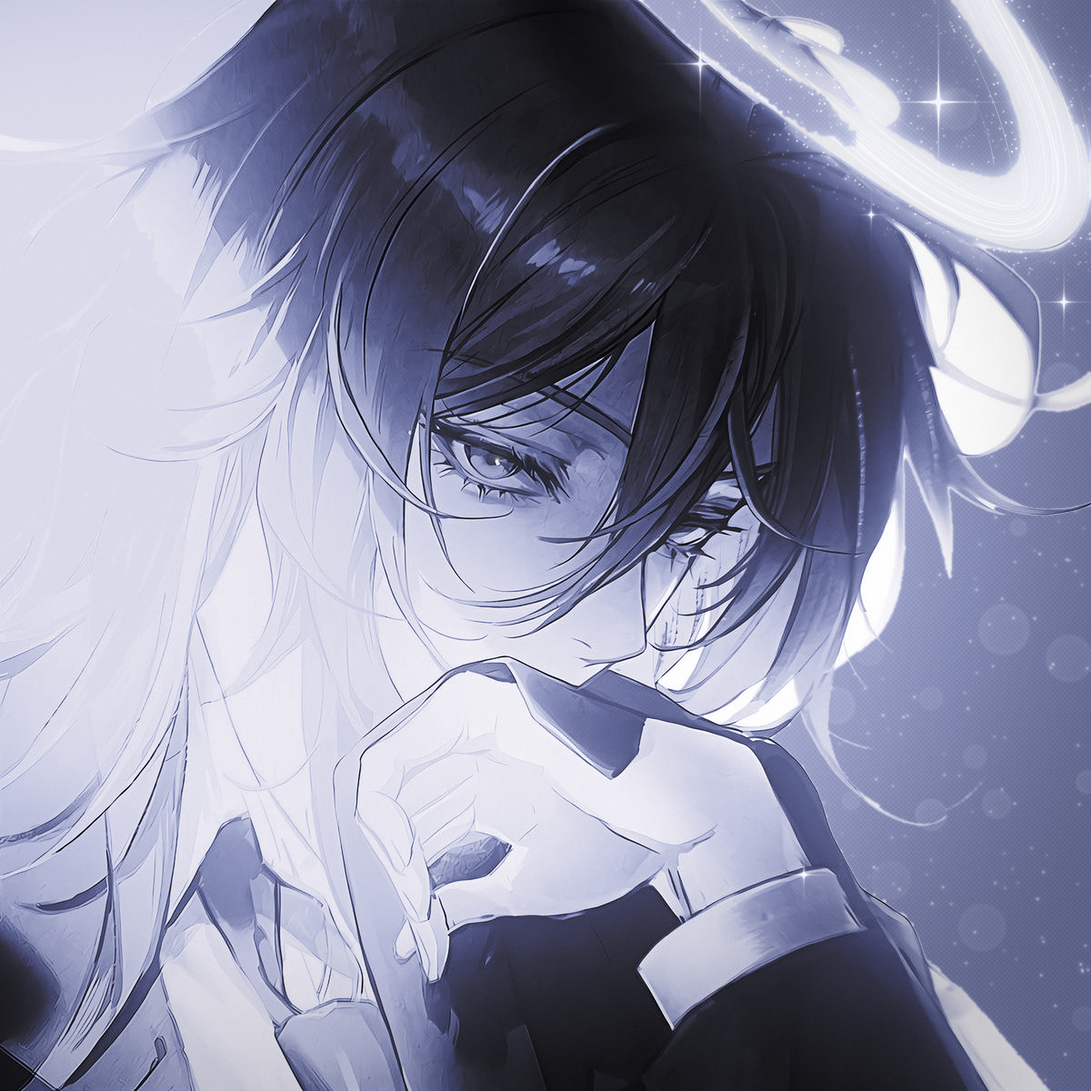
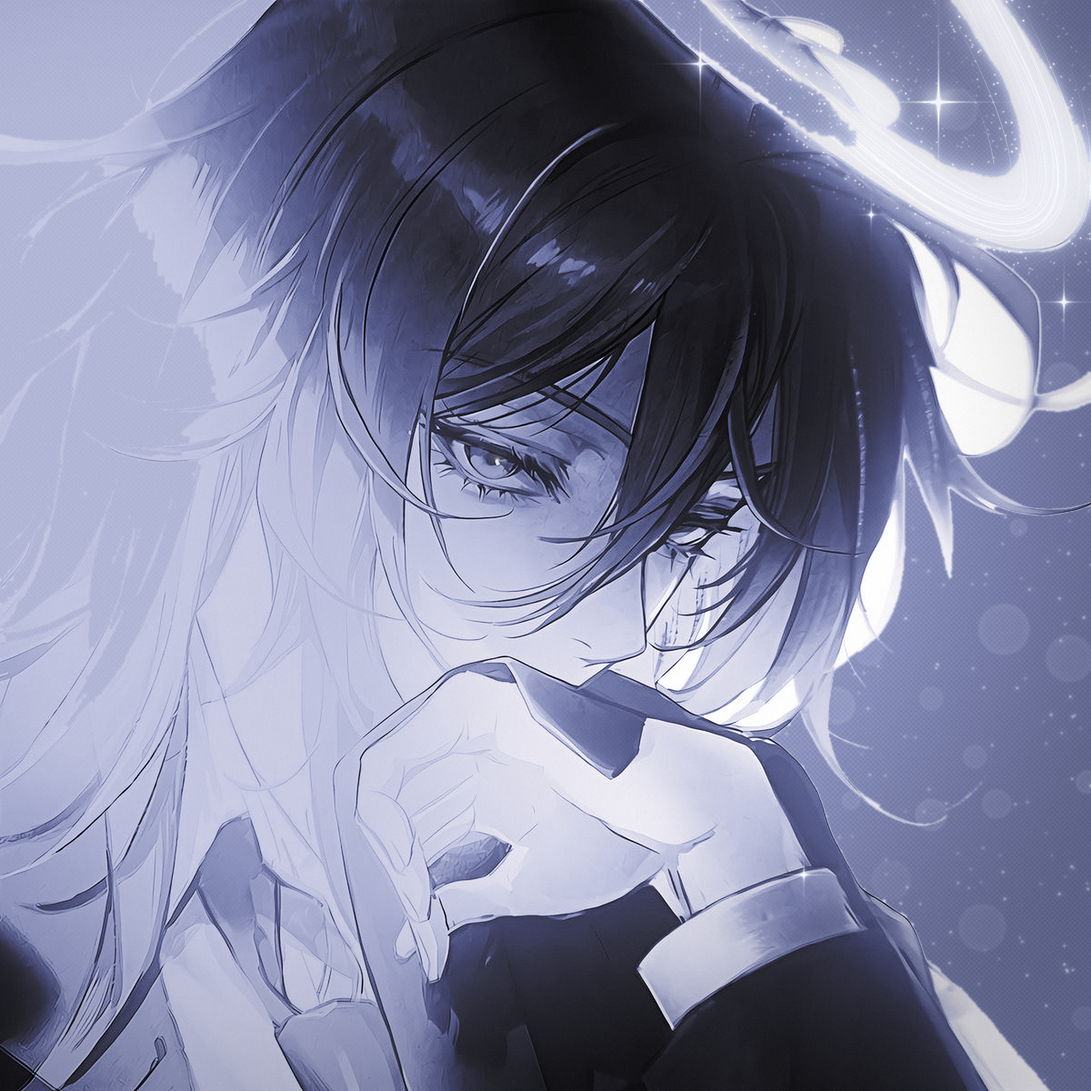
Calm the glare on the left of the anime art
The user asked to tone down the glare on the left again.

- Left background near the light: 0.86 -> 0.72 (BG_NEAR).
- Left hair highlights now roll off from 0.60 up to 0.80
  (LEFT_KNEE / LEFT_TOP, was 0.72 -> 0.92), still spreading the top
  tones so the strands stay visible.
- Bloom is almost off on the left (95% instead of 70% reduction).
- Bokeh orbs and light specks are placed by distance from the light,
  so the darker background does not bring sparkle back to the left.

Far-left area: mean brightness 0.84 -> 0.72, share above 0.85 74% -> 0%;
the face is unchanged (0.46 -> 0.45).

Claude-Session: https://claude.ai/code/session_01R1ufdM6Gy46JF29dPHPPpt

Changed region(s): [[0.0, 0.0, 0.4062, 1.0]]

diff --git a/halo/beautify.py b/halo/beautify.py
@@ -5,8 +5,9 @@
    everything below is drawn natively at that size; masks are found at 1x.
 2. Highlights on the left: the backlit hair there was half pure white. Its
    strands are still in the original's top tones (and in its blue channel,
-   which clips far less), so those tones are rolled off with a shoulder that
-   spreads them out instead of flattening them, fading in from the left.
+   which clips far less), so those tones are rolled off from LEFT_KNEE up to
+   LEFT_TOP with a shoulder that spreads them out instead of flattening them,
+   fading in from the left; bloom, bokeh and specks stay off that side.
 3. Depth: a gentle S-curve, and local contrast on the mid-tones.
 4. Background: the flat white turns into a twilight periwinkle, soft lavender
    near the light on the left and darker away from it, with the edit's print
@@ -39,7 +40,8 @@ ss = wh.ss
 S = 2                       # render scale
 # all coordinates below are in 1x pixels of anime.jpg
 LIGHT = (120.0, 480.0)      # the light on the left
-BG_NEAR, BG_FAR = 0.86, 0.46  # background brightness near the light and far from it
+BG_NEAR, BG_FAR = 0.72, 0.46  # background brightness near the light and far from it
+LEFT_KNEE, LEFT_TOP = 0.60, 0.80  # the left's highlights roll off from the knee up to this
 HOLE_AT = (1000, 60)        # a pixel of the sky inside the halo
 RING = (818.7, -168.1, 513.3, 124.2, 51.8)   # ellipse fitted to the halo band's centre line
 RING_HALF = 26.0            # half width of the band
@@ -130,8 +132,9 @@ def main():
     # 2) highlights on the left: roll the top tones off with a spreading shoulder
     left = ss(0.62 * W1, 0.28 * W1, X)
     Ld = 0.45 * L0 + 0.55 * P[..., 2]                                # blue keeps the strands
-    src = L0 + ss(0.72, 0.95, L0) * (Ld - L0)
-    sh = np.where(src > 0.72, 0.72 + 0.20 * (np.clip(src - 0.72, 0, None) / 0.28) ** 1.25, src)
+    src = L0 + ss(LEFT_KNEE, 0.95, L0) * (Ld - L0)
+    span = LEFT_TOP - LEFT_KNEE
+    sh = np.where(src > LEFT_KNEE, LEFT_KNEE + span * (np.clip(src - LEFT_KNEE, 0, None) / (1.0 - LEFT_KNEE)) ** 1.25, src)
     notbg = 1.0 - eh.gauss(bg.astype(np.float64), 1.5 * S)
     Lr = L0 + left * notbg * (sh - L0)
 
@@ -154,7 +157,7 @@ def main():
     rgb *= (1.0 + dots * (2.0 * screen_pattern(X, Y) - 1.0))[..., None]
 
     # 6) light
-    hi = ss(0.80, 0.97, L2) * (1.0 - bgw) * (1.0 - 0.7 * left)
+    hi = ss(0.80, 0.97, L2) * (1.0 - bgw) * (1.0 - 0.95 * left)
     bloom = 0.06 * eh.gauss(hi, 6.0 * S) + 0.06 * eh.gauss(hi, 24.0 * S)
 
     inner, stray = halo_strands((H, W), rng)
@@ -181,7 +184,7 @@ def main():
     pick = rng.choice(len(xs), n, replace=False)
     w_ = rng.uniform(0.3, 1.0, n) * np.exp(-ring_d[ys[pick], xs[pick]] / 25.0)
     dust = splat(np.zeros((H, W)), xs[pick] + rng.uniform(-1, 1, n), ys[pick] + rng.uniform(-1, 1, n), w_)
-    ys, xs = np.nonzero(bg & (ring_d > 60) & (target < 0.80))
+    ys, xs = np.nonzero(bg & (ring_d > 60) & (r > 0.42))           # away from the light only
     m = 110
     pick = rng.choice(len(xs), m, replace=False)
     specks = splat(np.zeros((H, W)), xs[pick].astype(float), ys[pick].astype(float), rng.uniform(0.2, 0.8, m))
@@ -190,7 +193,7 @@ def main():
     light = eh.screen(light, np.clip(sparkle, 0.0, 1.0)[..., None] * (0.55 + 0.45 * GLOW))
 
     # bokeh: soft orbs of light far behind the figure, in the darker background
-    ok = bg & (ring_d > 50) & (target < 0.72) & (X > 40) & (Y > 30)
+    ok = bg & (ring_d > 50) & (r > 0.55) & (X > 40) & (Y > 30)
     ys, xs = np.nonzero(ok[::8, ::8])
     bok = np.zeros((H, W))
     placed = []

diff --git a/halo/README.md b/halo/README.md
@@ -46,8 +46,8 @@
 
 لمسة فنية بنفس ستايل صورتك (`beautify.py`)، مرسومة بدقة مضاعفة:
 - **الجودة**: الصورة مكبّرة ×2 مع حدة خفيفة، وكل الإضافات مرسومة مباشرة على الدقة الكبيرة، فتطلع حادة. فيه نسخة JPEG أخف (`anime_art.jpg`، 2.1 ميجا).
-- **اللمعة اللي على اليسار صارت أخف**: الشعر اللي على اليسار كان نصه أبيض صافي (42%)، وصار 0%. تفاصيل الشعر كانت مخفية في أفتح الدرجات، فرجعتها، فتبان الخصل بدل البياض.
-- **الخلفية**: سما بنفسجي مزرق، فاتح بنعومة جهة الضوء على اليسار ويغمق كل ما بعدنا عنه. نقاط الطباعة بس في الأجزاء الغامقة.
+- **الوميض اللي على اليسار صار هادي**: الشعر اللي على اليسار كان نصه أبيض صافي، والحين ما فيه أي جزء فوق 85% سطوع. رجعت تفاصيل الخصل اللي كانت مخفية في البياض، والخلفية هناك لافندر هادي. التوهج والبوكيه والنقاط بعيدة عن هالجهة.
+- **الخلفية**: سما بنفسجي مزرق، أفتح شوي جهة الضوء على اليسار ويغمق كل ما بعدنا عنه. نقاط الطباعة بس في الأجزاء الغامقة.
 - **الحلقة**: تتوهج، ومكونة من خيوط نور رفيعة زي حلقتك، وحولها كم خيط طاير. معها نجوم بأربع أطراف ولمعات صغيرة.
 - **إضافات**: دواير نور ضبابية (بوكيه) ونقاط نور في الخلفية ورا الشخصية، ولمعة على طرف الكم، ولمعة في العين، وتغميق خفيف في الزوايا.
 
